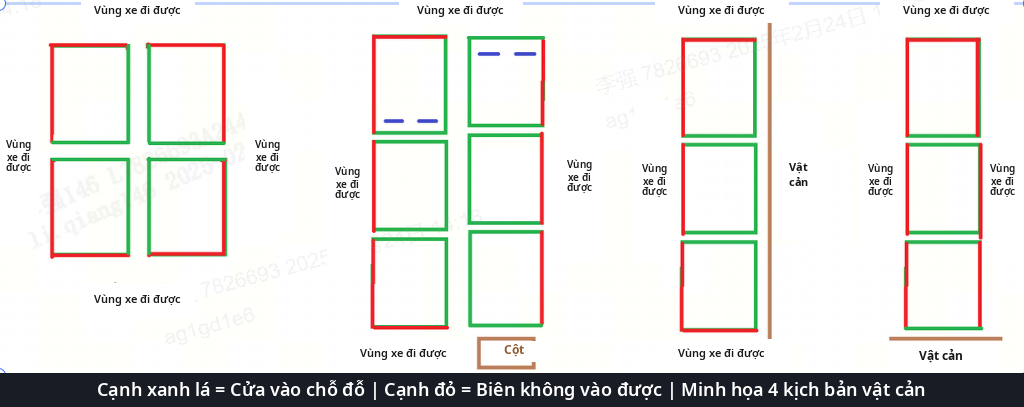
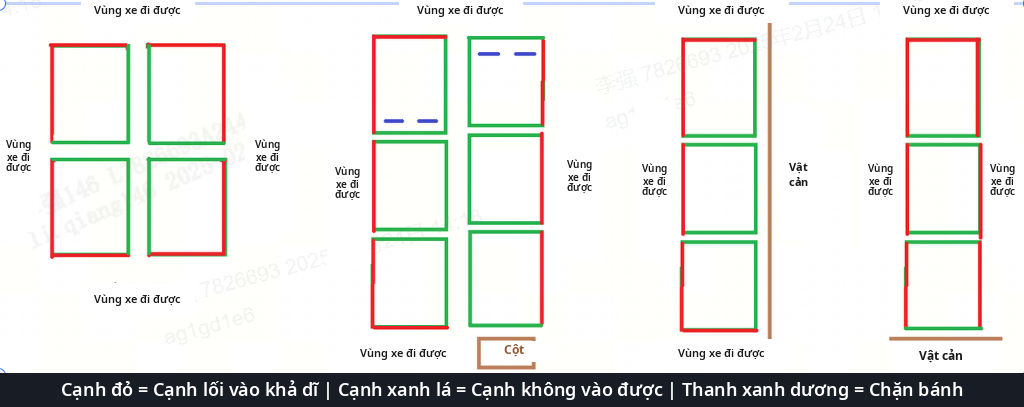
tách mục thuật ngữ tài liệu cập nhật thuật ngữ cho entrance confusion

Changed region(s): [[0.0625, 0.9435, 0.9375, 0.973]]

diff --git a/300-10-v3.2.1-vi.md b/300-10-v3.2.1-vi.md
@@ -1,6 +1,6 @@
 # 300-10 Đặc tả Nhận thức Tĩnh (Bản rút gọn cho Thị trường Nước ngoài) v3.2.1
 
-> **Tài liệu bổ trợ nội bộ:** Xem giải thích trực quan các thuật ngữ dễ nhầm *(như làn thủy triều vs làn biến đổi)* tại [`huong-dan-thuat-ngu.md`](huong-dan-thuat-ngu.md).
+> **Tài liệu bổ trợ nội bộ:** Xem mục lục giải thích trực quan các thuật ngữ dễ nhầm trong thư mục [`huong-dan-thuat-ngu/`](huong-dan-thuat-ngu/README.md).
 
 ## Lịch sử sửa đổi phiên bản
 
@@ -49,7 +49,7 @@ Chi tiết nội dung gán nhãn đường tâm làn xem tại **Bảng 1**.
 | `direction` | Hướng của làn đường (làn một chiều / làn hai chiều) | `0` | Một chiều (单向) | — |
 | `direction` | Hướng của làn đường | `1` | Hai chiều (双向) | — |
 | `type` | Loại làn đường | `0` | Làn thường (普通车道) | — |
-| `type` | Loại làn đường | `1` | **Làn thủy triều** (潮汐车道 — đoạn đường có thể thay đổi hướng xe chạy tùy lưu lượng giao thông, thường cấu tạo bởi hai cặp vạch nét đứt màu vàng song song; xem thêm [giải thích chi tiết](huong-dan-thuat-ngu.md#1-l%C3%A0n-th%E1%BB%A7y-tri%E1%BB%81u-lane-type--1-%E6%BD%AE%E6%B1%90%E8%BD%A6%E9%81%93)) | ![Làn thủy triều](assets/t1_lane_type1_tidal.png) |
+| `type` | Loại làn đường | `1` | **Làn thủy triều** (潮汐车道 — đoạn đường có thể thay đổi hướng xe chạy tùy lưu lượng giao thông, thường cấu tạo bởi hai cặp vạch nét đứt màu vàng song song; xem thêm [giải thích chi tiết](huong-dan-thuat-ngu/lan-thuy-trieu.md)) | ![Làn thủy triều](assets/t1_lane_type1_tidal.png) |
 | `type` | Loại làn đường | `2` | **Làn biến đổi** (可变车道 — làn có thể thay đổi hướng chỉ dẫn bất cứ lúc nào theo lưu lượng giao thông) | ![Làn biến đổi](assets/t1_lane_type2_variable.png) |
 | `type` | Loại làn đường | `3` | **Làn khẩn cấp** (应急车道 — làn dành cho xe chạy hoặc dừng đỗ trong trường hợp khẩn cấp) | ![Minh họa bổ sung: Làn khẩn cấp](assets/supp_1_1_lane_type3_emergency.png)<br>*(Hình minh họa bổ sung cho ô trống trong tài liệu gốc)* |
 | `type` | Loại làn đường | `4` | **Làn xe phi cơ giới** (非机动车道 — làn dành riêng cho xe phi cơ giới và xe máy lưu thông) | ![Minh họa bổ sung: Làn xe phi cơ giới](assets/supp_1_1_lane_type4_nonmotor.png)<br>*(Hình minh họa bổ sung cho ô trống trong tài liệu gốc)* |
@@ -194,7 +194,7 @@ Cột thứ 1 trong **Bảng 6** liệt kê các nội dung liên quan đến ch
 | `type` | Loại chỗ đỗ xe | `99` | **Chỗ đỗ `ignore`** (hình dạng giống chỗ đỗ xe nhưng không thể đỗ ô tô vào được) | ![Chỗ đỗ ignore](assets/t6_slot_type99_other.png) |
 | `points` | Tập điểm của chỗ đỗ xe, mảng `[(x, y, z)]` | `[0, +∞)` | Hệ tọa độ ảnh đối với PV; hệ tọa độ thân xe đối với BEV | — |
 | `entrance_confusion` | Thuộc tính nhầm lẫn cạnh lối vào | `0` | **Cạnh lối vào rõ ràng:** Có thể xác định rõ ràng cạnh nào là cạnh lối vào | ![Lối vào rõ ràng](assets/t6_slot_ec0_bev.png) |
-| `entrance_confusion` | Thuộc tính nhầm lẫn cạnh lối vào | `1` | **Chỗ đỗ nhầm lẫn cạnh lối vào:** Chỗ đỗ không thể xác định cạnh đỗ vào; nếu tồn tại nhiều cạnh lối vào thì thống nhất gán là chỗ đỗ nhầm lẫn cạnh lối vào | ![Sơ đồ nhầm lẫn cạnh lối vào](assets/t6_slot_ec1_diagram.png) |
+| `entrance_confusion` | Thuộc tính nhầm lẫn cạnh lối vào | `1` | **Chỗ đỗ nhầm lẫn cạnh lối vào:** Chỗ đỗ không thể xác định cạnh đỗ vào; nếu tồn tại nhiều cạnh lối vào thì thống nhất gán là chỗ đỗ nhầm lẫn cạnh lối vào *(xem thêm [giải thích chi tiết](huong-dan-thuat-ngu/entrance-confusion.md))* | ![Sơ đồ nhầm lẫn cạnh lối vào](assets/t6_slot_ec1_diagram.png) |
 | `occupy` | Thuộc tính chiếm chỗ | `0` | **Chưa bị chiếm (trống):** Thuộc tính mặc định, chỗ đỗ có thể đỗ vào và không bị bất kỳ vật cản nào chiếm. Nếu chỉ có xe Ego (tự xe) đỗ bên trong thì vẫn gán nhãn là chưa bị chiếm. | ![Chỗ đỗ trống](assets/t6_slot_occ0_empty.png) |
 | `occupy` | Thuộc tính chiếm chỗ | `1` | **Xe chiếm chỗ:** Xe cơ giới, trong đó bao gồm cả xe ba bánh đều phải gán nhãn là xe chiếm chỗ. | ![Xe chiếm chỗ](assets/t6_slot_occ1_car.png) |
 | `occupy` | Thuộc tính chiếm chỗ | `2` | **Chiếm chỗ động:** Đối với xe phi cơ giới, người đi bộ, xe đẩy trẻ em, xe đẩy siêu thị và các vật cản động có thể di chuyển được thì phải gán nhãn là chiếm chỗ động. | ![Xe hai bánh chiếm chỗ](assets/t6_slot_occ2_2wheel.png)<br>![Xe đẩy hàng chiếm chỗ](assets/t6_slot_occ2_cart.png) |
@@ -379,7 +379,7 @@ Cột thứ 1 trong **Bảng 6** liệt kê các nội dung liên quan đến ch
    ![Thứ tự điểm góc chỗ đỗ chéo](assets/bev_2_1_6_1_angled_order.png)
 
 2. **Thuộc tính nhầm lẫn cạnh lối vào (`entrance_confusion`):**
-   - **Định nghĩa:** Do trên bản đồ nền lớn không cố định vị trí xe Ego nên có thể tồn tại nhiều cạnh có thể đi vào *(tại ngã tư hoặc tiếp giáp nhiều vùng xe đi được: xung quanh các cạnh chỗ đỗ không có vật cản cố định không di dời được như cột, thanh chặn bánh, tường...)*; trường hợp này thống nhất gán thuộc tính **`entrance_confusion = 1`**. *(Quy ước màu trên sơ đồ vector tại mục này trong PDF gốc: màu xanh lá là chỗ đỗ xe, màu xanh dương là thanh chặn bánh, màu đen là vạch làn đường chính, màu đỏ là cạnh lối vào — lưu ý không nhầm với quy ước màu ngược lại của hình minh họa ở Bảng 6.)*
+   - **Định nghĩa:** Do trên bản đồ nền lớn không cố định vị trí xe Ego nên có thể tồn tại nhiều cạnh có thể đi vào *(tại ngã tư hoặc tiếp giáp nhiều vùng xe đi được: xung quanh các cạnh chỗ đỗ không có vật cản cố định không di dời được như cột, thanh chặn bánh, tường...)*; trường hợp này thống nhất gán thuộc tính **`entrance_confusion = 1`**. *(Quy ước màu trên sơ đồ vector tại mục này trong PDF gốc: màu xanh lá là viền chỗ đỗ, màu xanh dương là thanh chặn bánh, màu đen là vạch làn đường chính, màu đỏ là cạnh lối vào — đồng nhất với sơ đồ minh họa ở Bảng 6.)*
 3. **Trường hợp bị cắt góc (truncation):** Khi điểm góc thực tế nằm ngoài khung hình khiến chỗ đỗ bị cắt bớt, gán điểm ngay trên mép khung hình *(ảnh trái là hiện trạng gốc, ảnh phải là kết quả sau gán nhãn)*.
 
    ![Chỗ đỗ bị cắt góc 1](assets/bev_2_1_6_1_trunc_1.png)

diff --git a/huong-dan-thuat-ngu/entrance-confusion.md b/huong-dan-thuat-ngu/entrance-confusion.md
@@ -1,0 +1,41 @@
+# Nhầm lẫn cạnh lối vào (`entrance_confusion`)
+
+> Thuộc bộ [Hướng dẫn thuật ngữ](README.md) đi kèm bản đặc tả [`300-10-v3.2.1-vi.md`](../300-10-v3.2.1-vi.md).
+
+## 1. Tại sao phải có thuộc tính `entrance_confusion`?
+Theo quy tắc gán điểm góc ở mục `2.1.6.1`, mỗi chỗ đỗ xe có 4 điểm `0 → 1 → 2 → 3` theo chiều kim đồng hồ, và **cạnh `0-1` bắt buộc phải là cạnh lối vào** (cạnh mở để xe lái vào ô đỗ).
+
+- Khi gán nhãn trên **bản đồ nền lớn (BEV)**, vị trí hiện tại của xe Ego không cố định.
+- Nếu một ô đỗ chỉ tiếp giáp vùng xe đi được đúng **1 cạnh duy nhất** (3 cạnh còn lại bị bịt bởi tường, cột, thanh chặn bánh, hoặc giáp lưng/giáp hông ô đỗ khác) → xác định chắc chắn được đâu là cạnh `0-1` → gán **`entrance_confusion = 0`** (*cạnh lối vào rõ ràng*).
+- Ngược lại, nếu một ô đỗ có **từ 2 cạnh trở lên đều có thể lái xe trực tiếp đi vào** (vì xung quanh các cạnh đó đều là vùng xe đi được và không có vật cản cố định) → annotator không thể khẳng định chắc chắn cạnh nào là cạnh `0-1` duy nhất → thống nhất gán **`entrance_confusion = 1`** (*chỗ đỗ nhầm lẫn cạnh lối vào*).
+
+## 2. Đọc đúng quy ước màu trong sơ đồ minh họa (Bảng 6 & mục 2.1.6.1)
+Trong cả **Bảng 6** và **mục 2.1.6.1** của PDF gốc, quy ước màu đồng nhất như sau:
+- **Cạnh MÀU ĐỎ:** **Cạnh lối vào khả dĩ** — cạnh hở, tiếp giáp trực tiếp với **Vùng xe đi được** và không bị vật cản cố định chắn → xe **có thể** đi vào ô đỗ từ cạnh này.
+- **Cạnh MÀU XANH LÁ:** **Cạnh không vào được** — cạnh bị chặn bởi **vật cản cố định** (tường, rào, cột), bị **thanh chặn bánh (màu xanh dương)** khóa đầu ở phía đó, hoặc **giáp lưng/giáp hông với ô đỗ khác**.
+
+![Sơ đồ 4 kịch bản nhầm lẫn cạnh lối vào](../assets/t6_slot_ec1_diagram.png)
+
+> **Quy tắc đếm nhanh:** Đếm số **cạnh đỏ** của riêng ô đỗ đang xét:
+> - Cạnh đỏ **`= 1`** → lối vào rõ ràng (**`entrance_confusion = 0`**).
+> - Cạnh đỏ **`> 1`** *(hoặc không xác định được cạnh nào để đi vào)* → chỗ đỗ nhầm lẫn cạnh lối vào (**`entrance_confusion = 1`**).
+
+## 3. Lưu ý quan trọng: Khi `entrance_confusion = 1` có bỏ đánh điểm `0, 1, 2, 3` không?
+**KHÔNG.** Trong mọi trường hợp (kể cả khi **`entrance_confusion = 1`**), bạn **VẪN BẮT BUỘC phải đánh đủ 4 điểm góc `0, 1, 2, 3` theo chiều kim đồng hồ**:
+- Theo quy tắc `2.1.6.1-1`: *"Mỗi chỗ đỗ xe bắt buộc phải có đúng **4 điểm góc** (không được ít hơn hoặc nhiều hơn 4 điểm)"* và *"Tuyệt đối không được gán sai thứ tự điểm góc trong mọi trường hợp"*.
+- Khi ô đỗ có **`> 1` cạnh đỏ**, thao tác đúng là:
+  1. **Chọn 1 cạnh đỏ hợp lý** làm cạnh `0-1`, rồi đánh đủ 4 điểm **`0, 1, 2, 3`** theo chiều kim đồng hồ như bình thường *(như minh họa ở hình vector mục `2.1.6.1-2` trong PDF gốc)*.
+  2. Gán kèm thuộc tính **`entrance_confusion = 1`**.
+
+> **Ý nghĩa thật của `entrance_confusion = 1`:** Thuộc tính này **không** dùng để bỏ đánh `0, 1, 2, 3`, mà là **cờ báo cho mô hình/hệ thống** biết ô đỗ có nhiều cạnh lối vào hợp lệ, nên cạnh `0-1` vừa đánh chỉ là một trong các lối vào khả dĩ chứ không phải lối vào duy nhất.
+
+## 4. Giải đáp các tình huống hay thắc mắc
+1. **"Cạnh màu đỏ giáp vùng xe đi được" có nghĩa là xe không được vào à?**
+   - **Không phải.** Trong sơ đồ của spec này, **cạnh màu đỏ mới là cạnh xe có thể đi vào**, còn **cạnh màu xanh lá** mới là cạnh bị chặn / giáp ô khác không vào được.
+2. **Nếu cạnh hướng ra vùng xe đi được nhưng ngay phía đó có vật cản cố định (cột, tường, hoặc thanh chặn bánh sát cạnh) thì sao?**
+   - Vật cản **cố định, không di dời được** (như cột `柱子`, tường `障碍物`, thanh chặn bánh gắn ở cạnh đó — xem hình 2, 3, 4) biến cạnh đó thành **cạnh xanh lá** (không vào được).
+     - Nếu nhờ bị chặn bớt mà chỉ còn lại **1 cạnh đỏ duy nhất** → **`entrance_confusion = 0`** (ví dụ ô trên-phải và ô dưới-phải ở hình 2, hoặc các ô ở giữa của hình 2 và hình 3).
+     - Nếu chặn bớt rồi mà vẫn còn **`> 1` cạnh đỏ** (như ô dưới cùng ở hình 4 bị chặn đáy nhưng vẫn mở cả bên trái và bên phải, hoặc ô trên-trái ở hình 2 bị chặn đáy bằng thanh chặn bánh nhưng vẫn mở cả trên và trái) → vẫn gán **`entrance_confusion = 1`**.
+   - Nếu vật cản chỉ là vật **chắn tạm / chiếm chỗ** bên trong ô đỗ (xe khác đang đỗ, cọc tiêu di động, biển cấm đỗ, xe đẩy...) thì **không** làm đổi logic `entrance_confusion`; lúc đó xử lý bằng thuộc tính **`occupy`** (chiếm chỗ).
+3. **Ở cụm 2×2 giữa bãi trống (hình 1) có tới 2 cạnh đỏ mỗi ô, nghĩa là xe đỗ vào từ cả 2 phía được à?**
+   - Đúng vậy. Vì mỗi ô nằm ở góc cụm, không có thanh chặn bánh hay cột chắn, nên trên bản đồ BEV có thể hiểu là đỗ thẳng từ trên/dưới vào **hoặc** đỗ song song từ trái/phải vào — tồn tại 2 cạnh lối vào khả dĩ nên gán `entrance_confusion = 1`.

diff --git a/huong-dan-thuat-ngu/lan-thuy-trieu.md b/huong-dan-thuat-ngu/lan-thuy-trieu.md
@@ -1,27 +1,23 @@
-# Tài liệu bổ trợ: Giải thích thuật ngữ & các trường hợp dễ nhầm (300-10 v3.2.1)
+# Làn thủy triều (`Lane type = 1`, 潮汐车道)
 
-> Tài liệu ghi chú nội bộ đi kèm bản đặc tả chính thức [`300-10-v3.2.1-vi.md`](300-10-v3.2.1-vi.md). Nội dung dưới đây nhằm giúp annotator/QC hiểu rõ bản chất thực tế và tránh nhầm lẫn khi gán nhãn, **không nằm trong file PDF gốc**.
+> Thuộc bộ [Hướng dẫn thuật ngữ](README.md) đi kèm bản đặc tả [`300-10-v3.2.1-vi.md`](../300-10-v3.2.1-vi.md).
 
----
-
-## 1. Làn thủy triều (`Lane type = 1`, 潮汐车道)
-
-### 1.1 Bản chất ngoài thực tế
+## 1. Bản chất ngoài thực tế
 Hiểu một cách đơn giản, **làn thủy triều** (*tidal lane* — ngoài đời thường gọi là **làn đường đảo chiều theo giờ**) là **một làn xe có thể đổi ngược chiều di chuyển tùy theo khung giờ cao điểm**.
 
 Tên gọi "thủy triều" bắt nguồn từ việc lưu lượng xe lên – xuống theo hai hướng trong ngày giống như thủy triều:
 - **Buổi sáng:** Dòng xe hướng **vào trung tâm** đông → làn này mở cho xe chạy theo hướng **vào**.
 - **Buổi chiều:** Dòng xe hướng **ra khỏi trung tâm** đông → làn này đảo ngược cho xe chạy theo hướng **ra**.
 
-### 1.2 Cách nhận biết trên mặt đường và ảnh camera / BEV
+## 2. Cách nhận biết trên mặt đường và ảnh camera / BEV
 - **Vạch kẻ hai bên làn:** Thường là **hai cặp vạch nét đứt màu vàng song song** (vạch đôi nét đứt vàng) bọc hai bên làn.
 - **Chữ sơn mặt đường & biển báo phụ:**
   - Mặt đường thường sơn chữ `潮汐车道` (*Làn thủy triều*), đôi khi có kèm mốc giờ (như `9:30` trong hình bên dưới).
   - Phía trên thường có **biển phụ khung giờ** (ví dụ `7:30–9:30`) hoặc **đèn tín hiệu trên giá long môn** (dấu `❌` đỏ cấm đi hoặc mũi tên xanh cho phép đi theo chiều tương ứng).
 
-![Minh họa nhận biết làn thủy triều](assets/t1_lane_type1_tidal.png)
+![Minh họa nhận biết làn thủy triều](../assets/t1_lane_type1_tidal.png)
 
-### 1.3 Phân biệt nhanh với "Làn biến đổi" (`Lane type = 2`)
+## 3. Phân biệt nhanh với "Làn biến đổi" (`Lane type = 2`)
 Hai loại làn này đều thay đổi quy tắc lưu thông theo lưu lượng nhưng **khác hẳn nhau về bản chất**:
 
 | Tiêu chí | Làn thủy triều (`Lane type = 1`) | Làn biến đổi (`Lane type = 2`) |
@@ -29,10 +25,10 @@ Hai loại làn này đều thay đổi quy tắc lưu thông theo lưu lượng
 | **Thay đổi cái gì?** | Đổi **chiều chạy tới / lùi** (thuận chiều hoặc ngược chiều theo giờ) | Luôn chạy **1 chiều tới ngã tư**, chỉ đổi **hướng mũi tên rẽ / đi thẳng** (lúc cho đi thẳng, lúc cho rẽ trái) |
 | **Vạch biên đặc trưng** | Hai cặp vạch **nét đứt màu vàng** song song | Vạch **răng cưa chéo** (nét gạch chéo hướng vào trong lòng làn) màu trắng |
 | **Chữ mặt đường** | `潮汐车道` (*Làn thủy triều*) | `可变车道` (*Làn biến đổi*) |
-| **Hình minh họa** | ![Làn thủy triều](assets/t1_lane_type1_tidal.png) | ![Làn biến đổi](assets/t1_lane_type2_variable.png) |
+| **Hình minh họa** | ![Làn thủy triều](../assets/t1_lane_type1_tidal.png) | ![Làn biến đổi](../assets/t1_lane_type2_variable.png) |
 
-### 1.4 Tóm tắt quy tắc gán nhãn trong spec
-Tham chiếu chi tiết tại [`300-10-v3.2.1-vi.md`](300-10-v3.2.1-vi.md):
+## 4. Tóm tắt quy tắc gán nhãn trong spec
+Tham chiếu chi tiết tại [`300-10-v3.2.1-vi.md`](../300-10-v3.2.1-vi.md):
 
 1. **Đường tâm làn (`Lane` — Bảng 1 & mục 2.1.1):**
    - Gán thuộc tính `type = 1` (**Làn thủy triều**).
@@ -44,4 +40,4 @@ Tham chiếu chi tiết tại [`300-10-v3.2.1-vi.md`](300-10-v3.2.1-vi.md):
 
 | Trường hợp thẳng hàng (vẽ chung 1 đường) | Trường hợp lệch bậc thang (vẽ tách riêng) |
 | :---: | :---: |
-| ![Vạch dừng làn thủy triều 1](assets/bev_2_1_4_4_tidal_1.png) | ![Vạch dừng làn thủy triều 2](assets/bev_2_1_4_4_tidal_2.png) |
+| ![Vạch dừng làn thủy triều 1](../assets/bev_2_1_4_4_tidal_1.png) | ![Vạch dừng làn thủy triều 2](../assets/bev_2_1_4_4_tidal_2.png) |

diff --git a/huong-dan-thuat-ngu/README.md b/huong-dan-thuat-ngu/README.md
@@ -1,0 +1,10 @@
+# Hướng dẫn thuật ngữ & các trường hợp dễ nhầm (300-10 v3.2.1)
+
+> Thư mục tài liệu ghi chú nội bộ đi kèm bản đặc tả chính thức [`300-10-v3.2.1-vi.md`](../300-10-v3.2.1-vi.md). Mỗi thuật ngữ được tách thành 1 file riêng để tiện tra cứu và bổ sung lâu dài; nội dung giải thích bổ trợ **không nằm trong file PDF gốc**.
+
+## Mục lục thuật ngữ
+
+| STT | Thuật ngữ / Thuộc tính | Mục liên quan trong spec | Tài liệu chi tiết |
+| :---: | :--- | :--- | :--- |
+| 1 | **Làn thủy triều** (`Lane type = 1`, 潮汐车道) | Mục 1.1 (Bảng 1), Mục 2.1.1, Mục 2.1.4 | [lan-thuy-trieu.md](lan-thuy-trieu.md) |
+| 2 | **Nhầm lẫn cạnh lối vào** (`entrance_confusion`) | Mục 1.6 (Bảng 6), Mục 2.1.6.1 | [entrance-confusion.md](entrance-confusion.md) |
